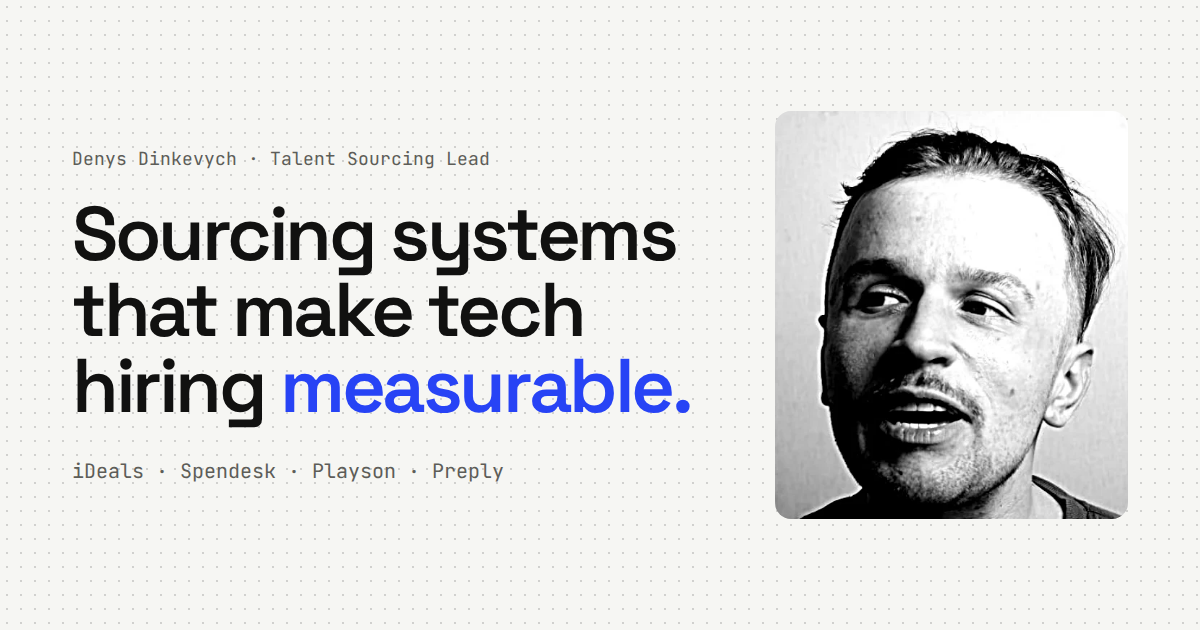
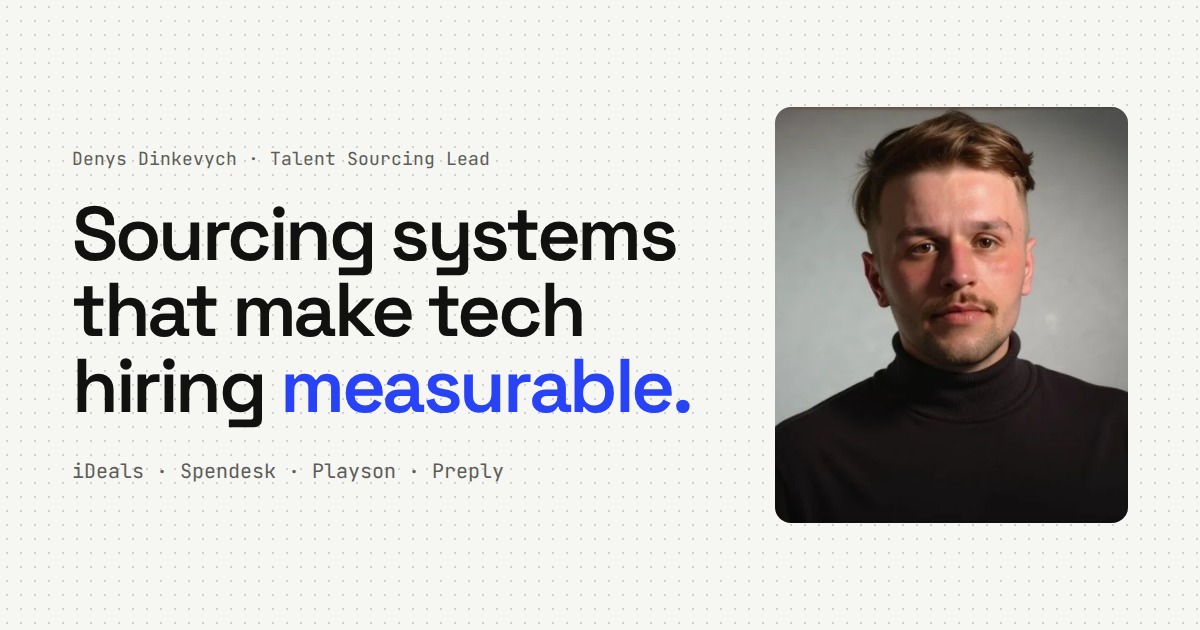
New studio portrait on the home page; three most-played mixes on /dj/
- Home hero dots now draw a new studio portrait (assets/portrait-2026.webp),
  prepared for dithering: side light flattened, backdrop washed to white.
  Avatar, touch icon and og.png use the same photo; the old cropped
  portrait is removed.
- /dj/: the SoundCloud playlist is replaced by one card per mix for the
  three most played (Nugcast #19, tresydos 018, LOWMONEYMUSICMIX 37).
  Each loads its own player on click; the hero button starts the first.
  press.js picks the top three by plays, the rest stay a numbered list.

Claude-Session: https://claude.ai/code/session_01SXqQ55BkfbQJhTjq4QWQmK

Changed region(s): [[0.6475, 0.1508, 0.9558, 0.8444]]

diff --git a/dj/index.html b/dj/index.html
@@ -95,7 +95,7 @@
   <section id="listen" class="sec wrap">
     <div class="sec-head">
       <h2>Listen</h2>
-      <p>A recorded set, then a playlist of guest mixes and podcasts. The YouTube and SoundCloud players load only when you press play.</p>
+      <p>A recorded set and the three most played guest mixes. The YouTube and SoundCloud players load only when you press play.</p>
     </div>
     <figure class="yt-facade" id="yt-facade">
       <button type="button" class="yt-play" data-video="ak-LFLGwA3E" aria-label="Play video: diskevich, Episode 7: Octan IN REC">
@@ -104,24 +104,34 @@
       </button>
       <figcaption class="yt-cap"><span><b>Episode 7: Octan IN REC</b><span class="mono">IN REC KYIV · YouTube</span></span><a class="mono" href="https://www.youtube.com/watch?v=ak-LFLGwA3E" target="_blank" rel="noopener">Watch on YouTube ↗</a></figcaption>
     </figure>
-    <div class="listen">
-      <div class="sc-facade dotgrid" id="sc-facade">
-        <button type="button" class="sc-play" id="sc-load" aria-label="Load and play the mixes spotlight playlist"><span aria-hidden="true">▶</span></button>
-        <div>
-          <p class="sc-title">Mixes spotlight</p>
-          <p class="sc-note mono">7 guest mixes · SoundCloud player</p>
-        </div>
-      </div>
-      <ol class="mixlist" id="press-mixes">
-        <li><a href="https://soundcloud.com/diskevich/sets/mixes-highlight" target="_blank" rel="noopener"><span>Nugs On Board</span><em>Nugcast #19</em></a></li>
-        <li><a href="https://soundcloud.com/diskevich/sets/mixes-highlight" target="_blank" rel="noopener"><span>tresydos</span><em>018</em></a></li>
-        <li><a href="https://soundcloud.com/diskevich/sets/mixes-highlight" target="_blank" rel="noopener"><span>LOWMONEYMUSICLOVE</span><em>Guest mix</em></a></li>
-        <li><a href="https://soundcloud.com/diskevich/sets/mixes-highlight" target="_blank" rel="noopener"><span>X-Kalay</span><em>XKM007</em></a></li>
-        <li><a href="https://soundcloud.com/diskevich/sets/mixes-highlight" target="_blank" rel="noopener"><span>Truants</span><em>Truancy Volume 320</em></a></li>
-        <li><a href="https://soundcloud.com/diskevich/sets/mixes-highlight" target="_blank" rel="noopener"><span>Kalahari Oyster Cult</span><em>The Sizeable Mix</em></a></li>
-        <li><a href="https://soundcloud.com/diskevich/sets/mixes-highlight" target="_blank" rel="noopener"><span>Breathe Records</span><em>Breathecast 022</em></a></li>
-      </ol>
-    </div>
+    <h3 class="sub-h">Most played guest mixes</h3>
+    <ol class="top-mixes" id="top-mixes">
+      <li class="mix-card dotgrid">
+        <p class="mix-top mono"><span>01</span><span>27K plays</span></p>
+        <h3>Nugs On Board</h3>
+        <p class="mix-title">Nugcast #19</p>
+        <div class="mix-foot"><button type="button" class="sc-play mix-play" data-url="https://soundcloud.com/nugsonboardlabel/nugcast-19-diskevich" aria-label="Play Nugcast #19 for Nugs On Board"><span aria-hidden="true">▶</span></button><a class="mono" href="https://soundcloud.com/nugsonboardlabel/nugcast-19-diskevich" target="_blank" rel="noopener">SoundCloud ↗</a></div>
+      </li>
+      <li class="mix-card dotgrid">
+        <p class="mix-top mono"><span>02</span><span>5.4K plays</span></p>
+        <h3>tresydos</h3>
+        <p class="mix-title">018</p>
+        <div class="mix-foot"><button type="button" class="sc-play mix-play" data-url="https://soundcloud.com/tresydosrecords/018-diskevich" aria-label="Play 018 for tresydos"><span aria-hidden="true">▶</span></button><a class="mono" href="https://soundcloud.com/tresydosrecords/018-diskevich" target="_blank" rel="noopener">SoundCloud ↗</a></div>
+      </li>
+      <li class="mix-card dotgrid">
+        <p class="mix-top mono"><span>03</span><span>5.1K plays</span></p>
+        <h3>LOWMONEYMUSICLOVE</h3>
+        <p class="mix-title">LOWMONEYMUSICMIX 37</p>
+        <div class="mix-foot"><button type="button" class="sc-play mix-play" data-url="https://soundcloud.com/lowmoneymusiclove/lowmoneymusicmix-37-diskevich" aria-label="Play LOWMONEYMUSICMIX 37 for LOWMONEYMUSICLOVE"><span aria-hidden="true">▶</span></button><a class="mono" href="https://soundcloud.com/lowmoneymusiclove/lowmoneymusicmix-37-diskevich" target="_blank" rel="noopener">SoundCloud ↗</a></div>
+      </li>
+    </ol>
+    <h3 class="sub-h">More guest mixes</h3>
+    <ol class="mixlist more-mixes" id="press-mixes">
+      <li><a href="https://soundcloud.com/x-kalay/xkm007-diskevich" target="_blank" rel="noopener"><span>X-Kalay</span><em>XKM007</em><small class="mono">4.1K plays</small></a></li>
+      <li><a href="https://soundcloud.com/truants/truancy-volume-320-diskevich" target="_blank" rel="noopener"><span>Truants</span><em>Truancy Volume 320</em><small class="mono">3.7K plays</small></a></li>
+      <li><a href="https://soundcloud.com/kalaharioystercult/the-sizeable-mix-vol-23-diskevich" target="_blank" rel="noopener"><span>Kalahari Oyster Cult</span><em>The Sizeable Mix Vol. 23</em><small class="mono">3.4K plays</small></a></li>
+      <li><a href="https://soundcloud.com/breathe_records/breathecast-022-diskevich" target="_blank" rel="noopener"><span>Breathe Records</span><em>Breathecast 022</em><small class="mono">3.3K plays</small></a></li>
+    </ol>
   </section>
 
   <!-- ============ GIGS ============ -->

diff --git a/styles.css b/styles.css
@@ -539,21 +539,30 @@ img { max-width: 100%; }
 .yt-cap .mono { font-size: 12.5px; color: var(--muted); }
 .yt-cap a { color: var(--accent); text-decoration: none; min-height: 44px; display: inline-flex; align-items: center; }
 
-/* player */
-.listen { display: grid; grid-template-columns: minmax(0, 1fr) minmax(0, 1fr); gap: clamp(20px, 3vw, 40px); align-items: start; }
-.sc-facade {
-  display: flex; flex-direction: column; justify-content: space-between; gap: 40px; min-height: 340px;
-  padding: clamp(20px, 3vw, 32px); border-radius: var(--radius); border: 1px solid var(--line); background-color: var(--panel);
+/* sub-heads inside a section */
+.sub-h { font-size: 13px; font-family: "JetBrains Mono", monospace; font-weight: 400; letter-spacing: .03em; color: var(--muted); margin: 0 0 14px; }
+
+/* three most played mixes: one card each, the player replaces the card on play */
+.top-mixes { list-style: none; margin: 0 0 clamp(28px, 4vw, 48px); padding: 0; display: grid; grid-template-columns: repeat(3, minmax(0, 1fr)); gap: 14px; }
+.mix-card {
+  display: flex; flex-direction: column; min-height: 300px; padding: 22px;
+  border-radius: var(--radius); border: 1px solid var(--line); background-color: var(--panel);
 }
-.sc-facade.loaded { display: block; padding: 0; border: 0; min-height: 0; background: none; }
-.sc-facade iframe { width: 100%; height: 450px; border: 0; border-radius: 12px; display: block; }
+.mix-card.loaded { padding: 0; border: 0; background: none; }
+.mix-card iframe { width: 100%; height: 300px; border: 0; border-radius: var(--radius); display: block; }
+.mix-top { display: flex; justify-content: space-between; font-size: 12.5px; color: var(--muted); margin-bottom: 18px; }
+.mix-top span:first-child { color: var(--accent); }
+.mix-card h3 { font-size: clamp(22px, 2.2vw, 28px); letter-spacing: -0.03em; overflow-wrap: anywhere; }
+.mix-title { color: var(--muted); margin-top: 6px; }
+.mix-foot { margin-top: auto; padding-top: 24px; display: flex; align-items: center; justify-content: space-between; gap: 12px; }
+.mix-foot a { font-size: 12.5px; color: var(--muted); text-decoration: none; min-height: 44px; display: inline-flex; align-items: center; }
+.mix-card .sc-play { width: 72px; height: 72px; font-size: 26px; }
 .sc-play {
   flex: none; width: 96px; height: 96px; border-radius: 50%; border: 0;
   background: var(--accent); color: var(--on-accent); font-size: 34px; cursor: pointer; touch-action: manipulation;
   transition: transform .15s;
 }
-.sc-title { font-weight: 600; font-size: clamp(24px, 2.6vw, 32px); letter-spacing: -0.03em; }
-.sc-note { font-size: 12.5px; color: var(--muted); margin-top: 6px; }
+.mixlist.more-mixes { counter-reset: mix 3; }
 .mixlist { list-style: none; margin: 0; padding: 0; counter-reset: mix; }
 .mixlist li { border-top: 1px solid var(--line); counter-increment: mix; }
 .mixlist li:last-child { border-bottom: 1px solid var(--line); }
@@ -675,7 +684,7 @@ img { max-width: 100%; }
 @media (max-width: 900px) {
   .stats { grid-template-columns: repeat(2, 1fr); }
   .stats li:nth-child(3) { padding-left: 0; border-left: 0; }
-  .band-grid, .case-feature, .listen, .tool-layout { grid-template-columns: 1fr; }
+  .band-grid, .case-feature, .tool-layout { grid-template-columns: 1fr; }
   .tool-layout > .pane-out { position: static; }
   .tool-grid, .more-tools { grid-template-columns: 1fr 1fr; }
   .viz-body.two { grid-template-columns: 1fr; }
@@ -736,8 +745,8 @@ img { max-width: 100%; }
   .gallery figcaption { flex-direction: column; align-items: flex-start; }
   .gigs-next a, .gigs-next .row { grid-template-columns: 1fr; padding: 18px; }
   .yt-play .sc-play { width: 64px; height: 64px; font-size: 24px; }
-  .sc-facade { min-height: 0; flex-direction: row; align-items: center; gap: 18px; }
-  .sc-facade .sc-play { width: 72px; height: 72px; font-size: 26px; }
+  .top-mixes { grid-template-columns: 1fr; }
+  .mix-card { min-height: 0; }
   .insta-card { grid-template-columns: 64px 1fr; }
   .insta-card img { width: 64px; height: 64px; }
   .insta-card .btn { grid-column: 1 / -1; }

diff --git a/dj/dj.js b/dj/dj.js
@@ -12,18 +12,26 @@
     iframe.focus();
   });
 
-  const box = document.getElementById("sc-facade");
-  if (!box) return;
-  function loadPlayer() {
-    if (box.classList.contains("loaded")) return;
+  // SoundCloud: each top-mix card swaps its play button for that mix's player
+  // (delegated, because press.js re-renders the cards from press.json)
+  function playMix(btn) {
+    const card = btn.closest(".mix-card");
     const iframe = document.createElement("iframe");
-    iframe.title = "mixes spotlight by diskevich on SoundCloud";
+    iframe.title = btn.getAttribute("aria-label").replace(/^Play /, "") + " on SoundCloud";
     iframe.allow = "autoplay";
-    iframe.src = "https://w.soundcloud.com/player/?url=" + encodeURIComponent("https://soundcloud.com/diskevich/sets/mixes-highlight") +
-      "&color=%23ff6a2b&auto_play=true&hide_related=true&show_comments=false&show_user=true&visual=false";
-    box.replaceChildren(iframe);
-    box.classList.add("loaded");
+    iframe.src = "https://w.soundcloud.com/player/?url=" + encodeURIComponent(btn.dataset.url) +
+      "&color=%23ff6a2b&auto_play=true&hide_related=true&show_comments=false&show_user=true&visual=true";
+    card.replaceChildren(iframe);
+    card.classList.add("loaded");
   }
-  document.getElementById("sc-load").addEventListener("click", loadPlayer);
-  for (const a of document.querySelectorAll("[data-play]")) a.addEventListener("click", loadPlayer);
+  document.addEventListener("click", (e) => {
+    const btn = e.target.closest(".mix-play");
+    if (btn) { playMix(btn); return; }
+    // "Play the mixes" in the hero starts the most played one
+    const hero = e.target.closest("[data-play]");
+    if (hero) {
+      const first = document.querySelector(".mix-play");
+      if (first) playMix(first);
+    }
+  });
 })();

diff --git a/press.js b/press.js
@@ -30,7 +30,16 @@
       const fill = (id, items, render) => { const el = document.getElementById(id); if (el) el.innerHTML = items.map(render).join(""); };
       fill("press-quotes", p.quotes, (q) =>
         `<li><blockquote>“${esc(q.text.replace(/^[“"]|[”"]$/g, ""))}”</blockquote><a class="mono" href="${esc(q.url)}" ${ext}>— ${esc(q.source)} ↗</a></li>`);
-      fill("press-mixes", p.mixes, (m) =>
+      // the three most-played mixes get their own players (#top-mixes), the rest stay a list
+      const byPlays = [...p.mixes].sort((a, b) => (b.plays || 0) - (a.plays || 0));
+      const hasTop = !!document.getElementById("top-mixes");
+      // don't rebuild the cards if a player is already running in one of them
+      if (!document.querySelector(".mix-card.loaded")) fill("top-mixes", byPlays.slice(0, 3), (m, i) =>
+        `<li class="mix-card dotgrid"><p class="mix-top mono"><span>${String(i + 1).padStart(2, "0")}</span><span>${fmtK(m.plays)} plays</span></p>` +
+        `<h3>${esc(m.label)}</h3><p class="mix-title">${esc(m.title)}</p>` +
+        `<div class="mix-foot"><button type="button" class="sc-play mix-play" data-url="${esc(m.url)}" aria-label="Play ${esc(m.title)} for ${esc(m.label)}"><span aria-hidden="true">▶</span></button>` +
+        `<a class="mono" href="${esc(m.url)}" ${ext}>SoundCloud ↗</a></div></li>`);
+      fill("press-mixes", hasTop ? byPlays.slice(3) : p.mixes, (m) =>
         `<li><a href="${esc(m.url)}" ${ext}><span>${esc(m.label)}</span><em>${esc(m.title)}</em><small class="mono">${fmtK(m.plays)} plays</small></a></li>`);
       fill("press-coverage", p.press, (a) =>
         `<li><a href="${esc(a.url)}" ${ext}><span>${esc(a.title)}</span><em>${esc(a.outlet)} · ${esc(a.date.slice(0, 4))}</em></a></li>`);

diff --git a/index.html b/index.html
@@ -82,10 +82,10 @@
       </div>
     </div>
     <figure class="art">
-      <canvas class="dots" id="engraving" tabindex="0" role="img"
-        data-images='{"day":{"src":"assets/portrait-hero.webp","mid":145,"spread":45}}'
+      <canvas class="dots" id="engraving" tabindex="0" role="img" style="--ar: 600 / 706"
+        data-images='{"day":{"src":"assets/portrait-2026.webp","mid":104,"spread":20}}'
         aria-label="Portrait of Denys drawn in dots. Move over it to scatter the dots, tap to rebuild."></canvas>
-      <img class="art-fallback" src="assets/portrait-hero.webp" width="488" height="564" alt="Portrait of Denys Dinkevych">
+      <img class="art-fallback" src="assets/portrait-2026.webp" width="600" height="706" alt="Portrait of Denys Dinkevych">
     </figure>
   </section>
 

diff --git a/README.md b/README.md
@@ -29,12 +29,12 @@ Live: **https://sourcingden.github.io/sitec/** (GitHub Pages, static, no build s
     --data '{"query":"{ artist(slug:\"diskevich\"){ upcoming: events(type: LATEST, limit: 5){ date title contentUrl venue{ name area{ name } } } past: events(type: PREVIOUS, limit: 5){ date title contentUrl venue{ name area{ name } } } } }"}'
   ```
 - **Press photos** live in `assets/press/photos/` (full JPG + `-web.webp` preview) and are listed in `press.json` → `photos`.
-- **Hero dots:** `engraving.js` dithers `assets/portrait-hero.webp` on `/` (a cropped, mirrored `portrait.webp`, so the face looks towards the text) and `assets/vinyl.webp` on `/dj/` (spins at 33⅓ rpm via `"spin": 200` degrees per second); tune `mid`/`spread` in the canvas `data-images` attribute.
+- **Hero dots:** `engraving.js` dithers `assets/portrait-2026.webp` on `/` (a studio portrait prepared for dots: side light flattened, backdrop washed to white) and `assets/vinyl.webp` on `/dj/` (spins at 33⅓ rpm via `"spin": 200` degrees per second); tune `mid`/`spread` in the canvas `data-images` attribute.
 
 ## Code
 - `styles.css` — one stylesheet: tokens (light for sourcing, dark for diskevich), then components, then breakpoints.
 - `site.js` — shared: mobile menu, clock, copy buttons (`data-copy="<id>"`).
 - `dj/dj.js` — YouTube and SoundCloud players on `/dj/` (both load only on click; the video shows a local thumbnail from `assets/video/` until then).
 - `boolean.js`, `tools/email-patterns/email.js`, `tools/outreach-check/outreach.js` — pure functions, testable in Node (`require()` them).
-- `cases/cases.js` — demo dashboards. `press.js` — renders `press.json`.
+- `cases/cases.js` — demo dashboards. `press.js` — renders `press.json`; on `/dj/` the three most-played mixes (by `plays`) become players, the rest a list.
 - Fonts are self-hosted in `assets/fonts/` (SIL Open Font License).
